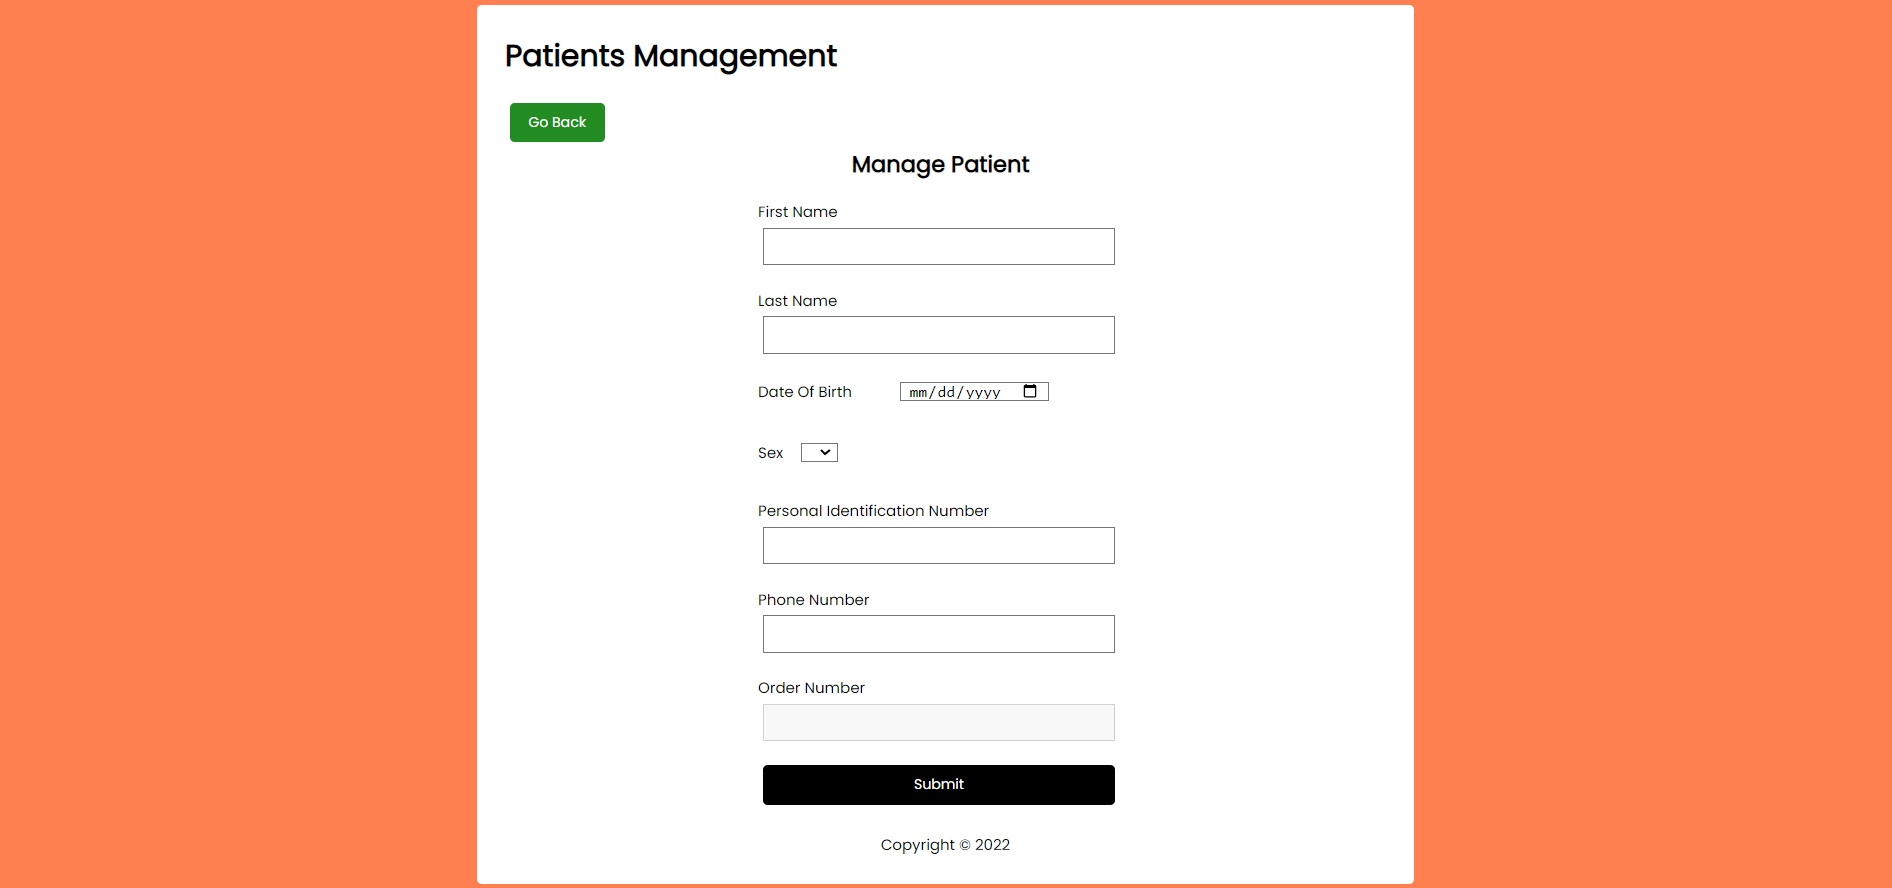
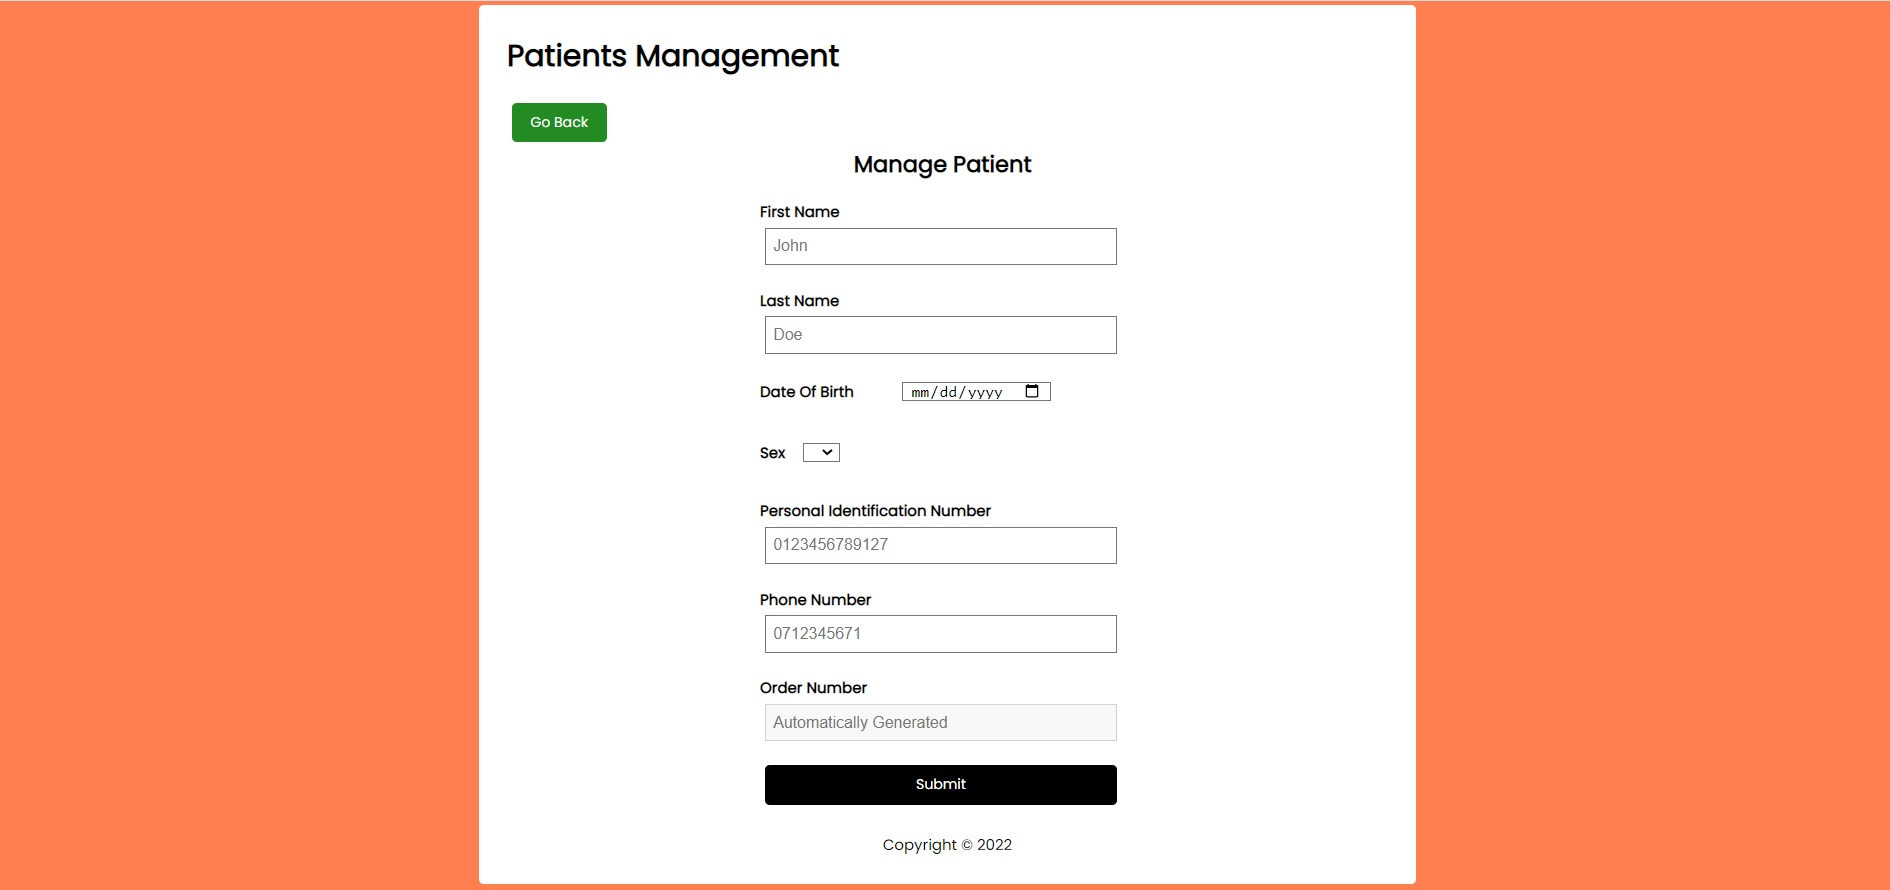
Update add edit form

diff --git a/angular-client/angular-healthcare/src/app/components/forms/add-edit-patient/add-edit-patient.component.html b/angular-client/angular-healthcare/src/app/components/forms/add-edit-patient/add-edit-patient.component.html
@@ -9,6 +9,7 @@
         name="firstName"
         [(ngModel)]="firstName"
         id="firstName"
+        placeholder="John"
         required
       />
     </div>
@@ -19,6 +20,7 @@
         name="lastName"
         [(ngModel)]="lastName"
         id="lastName"
+        placeholder="Doe"
         required
       />
     </div>
@@ -55,6 +57,7 @@
         name="personalIdentificationNumber"
         [(ngModel)]="personalIdentificationNumber"
         id="personalIdentificationNumber"
+        placeholder="0123456789127"
         required
       />
     </div>
@@ -65,12 +68,13 @@
         name="phoneNumber"
         [(ngModel)]="phoneNumber"
         id="phoneNumber"
+        placeholder="0712345671"
         required
       />
     </div>
     <div class="form-control">
       <label for="orderNumber">Order Number</label>
-      <input type="number" name="orderNumber" id="orderNumber" disabled />
+      <input type="number" name="orderNumber" id="orderNumber" placeholder="Automatically Generated" disabled />
     </div>
     <input type="submit" value="Submit" class="btn btn-block add-edit-btn" />
   </form>

diff --git a/angular-client/angular-healthcare/src/styles.css b/angular-client/angular-healthcare/src/styles.css
@@ -58,6 +58,7 @@ body {
 
 .form-control label {
   display: block;
+  font-weight: 900;
 }
 
 .form-control input {
